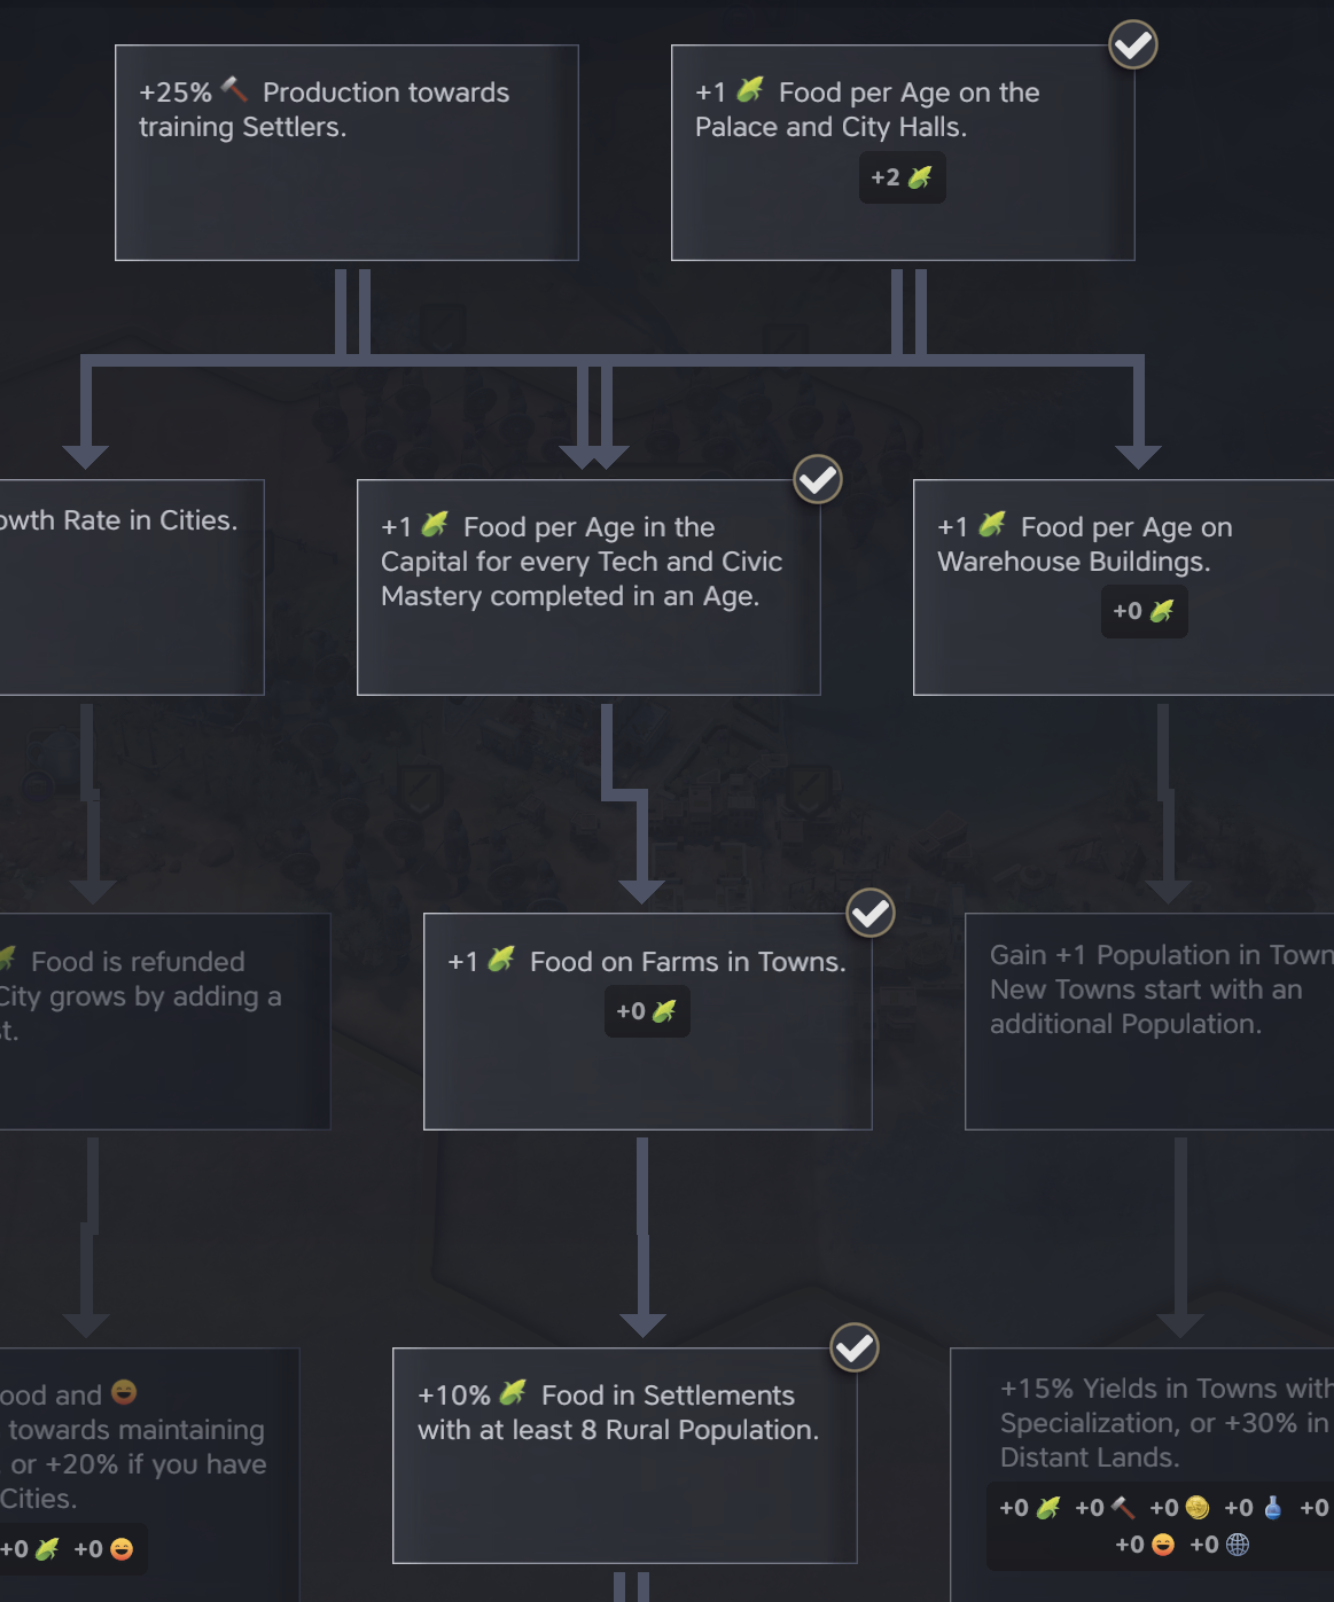
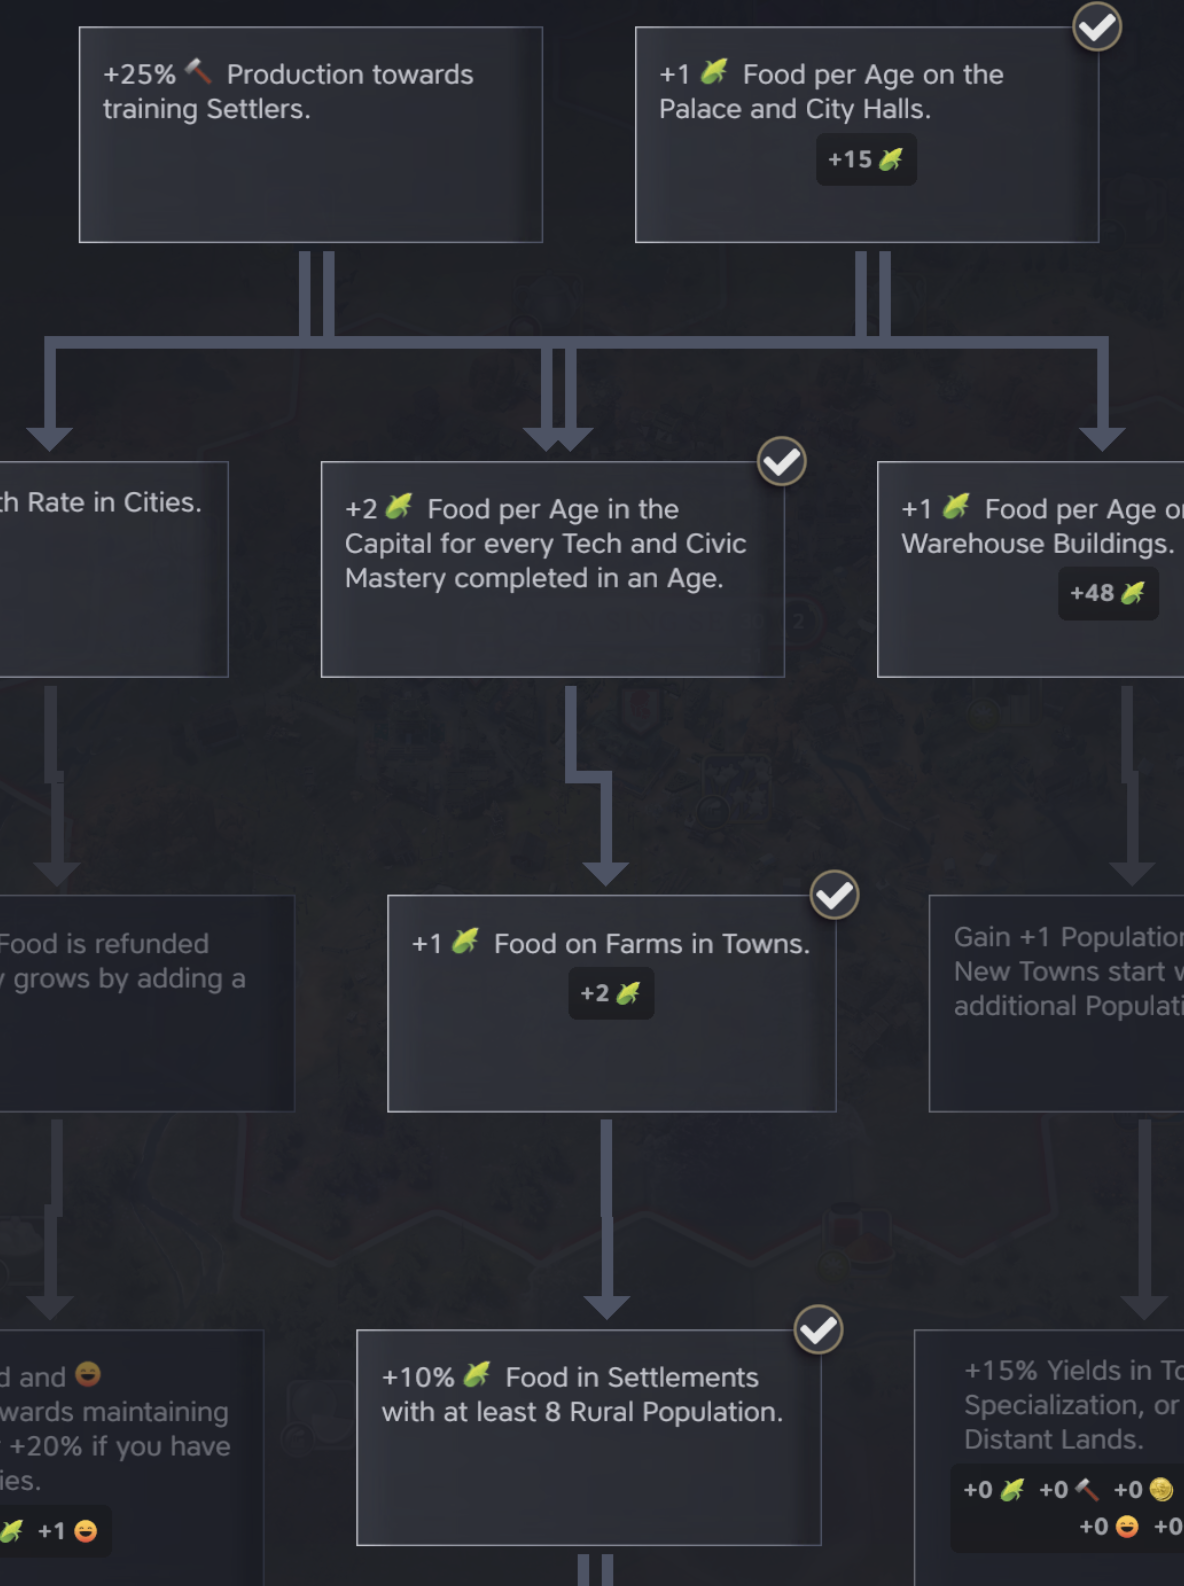
updated expansionist tree additional attribute to be +2 food per age in the Capital for every tech and civic mastery completed rather than +1 food per age.

diff --git a/README.md b/README.md
@@ -1,6 +1,7 @@
 # Extended Attribute Trees Mod
 
 Author: Austin Nicolas
+
 Version 1.0
 
 A mod for Civilization VII.
@@ -68,7 +69,7 @@ Adds 5 new nodes to the Expansionist Attribute Tree.
 
 <ol>
     <li>+1 Food per Age on the Palace and City Halls.</li>
-    <li>+1 Food per Age in the Capital for every Tech and Civic Mastery completed in an Age.</li>
+    <li>+2 Food per Age in the Capital for every Tech and Civic Mastery completed in an Age.</li>
     <li>+1 Food on Farms in Towns.</li>
     <li>+10% Food in Settlements with at least 8 Rural Population.</li>
     <li>+1 Food on Rural tiles. Repeatable.</li>
